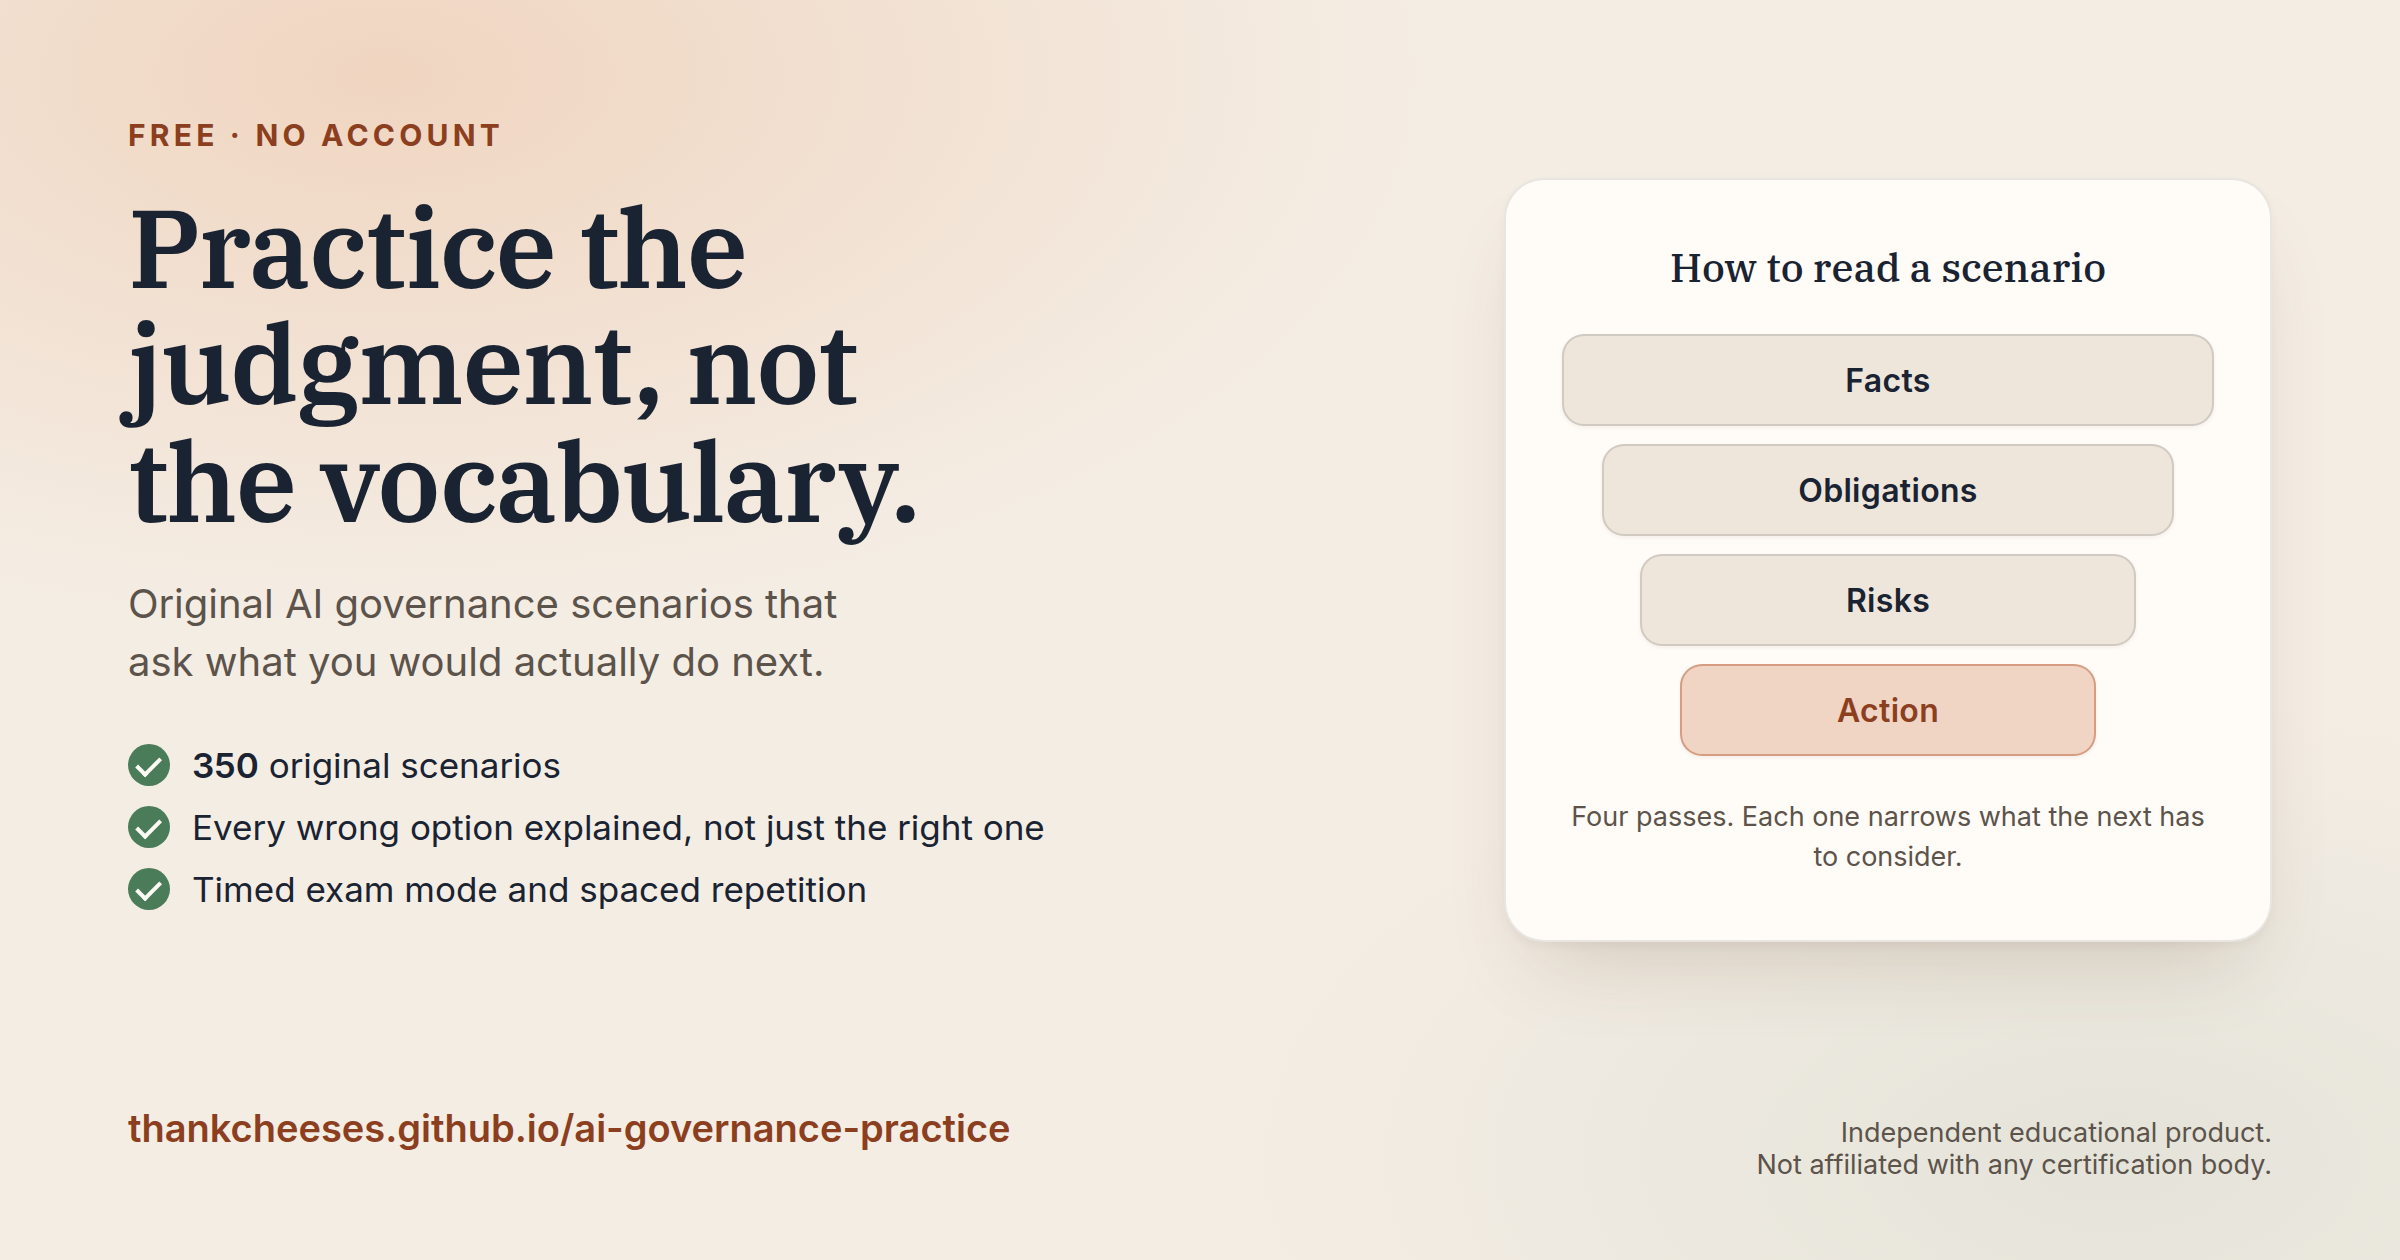
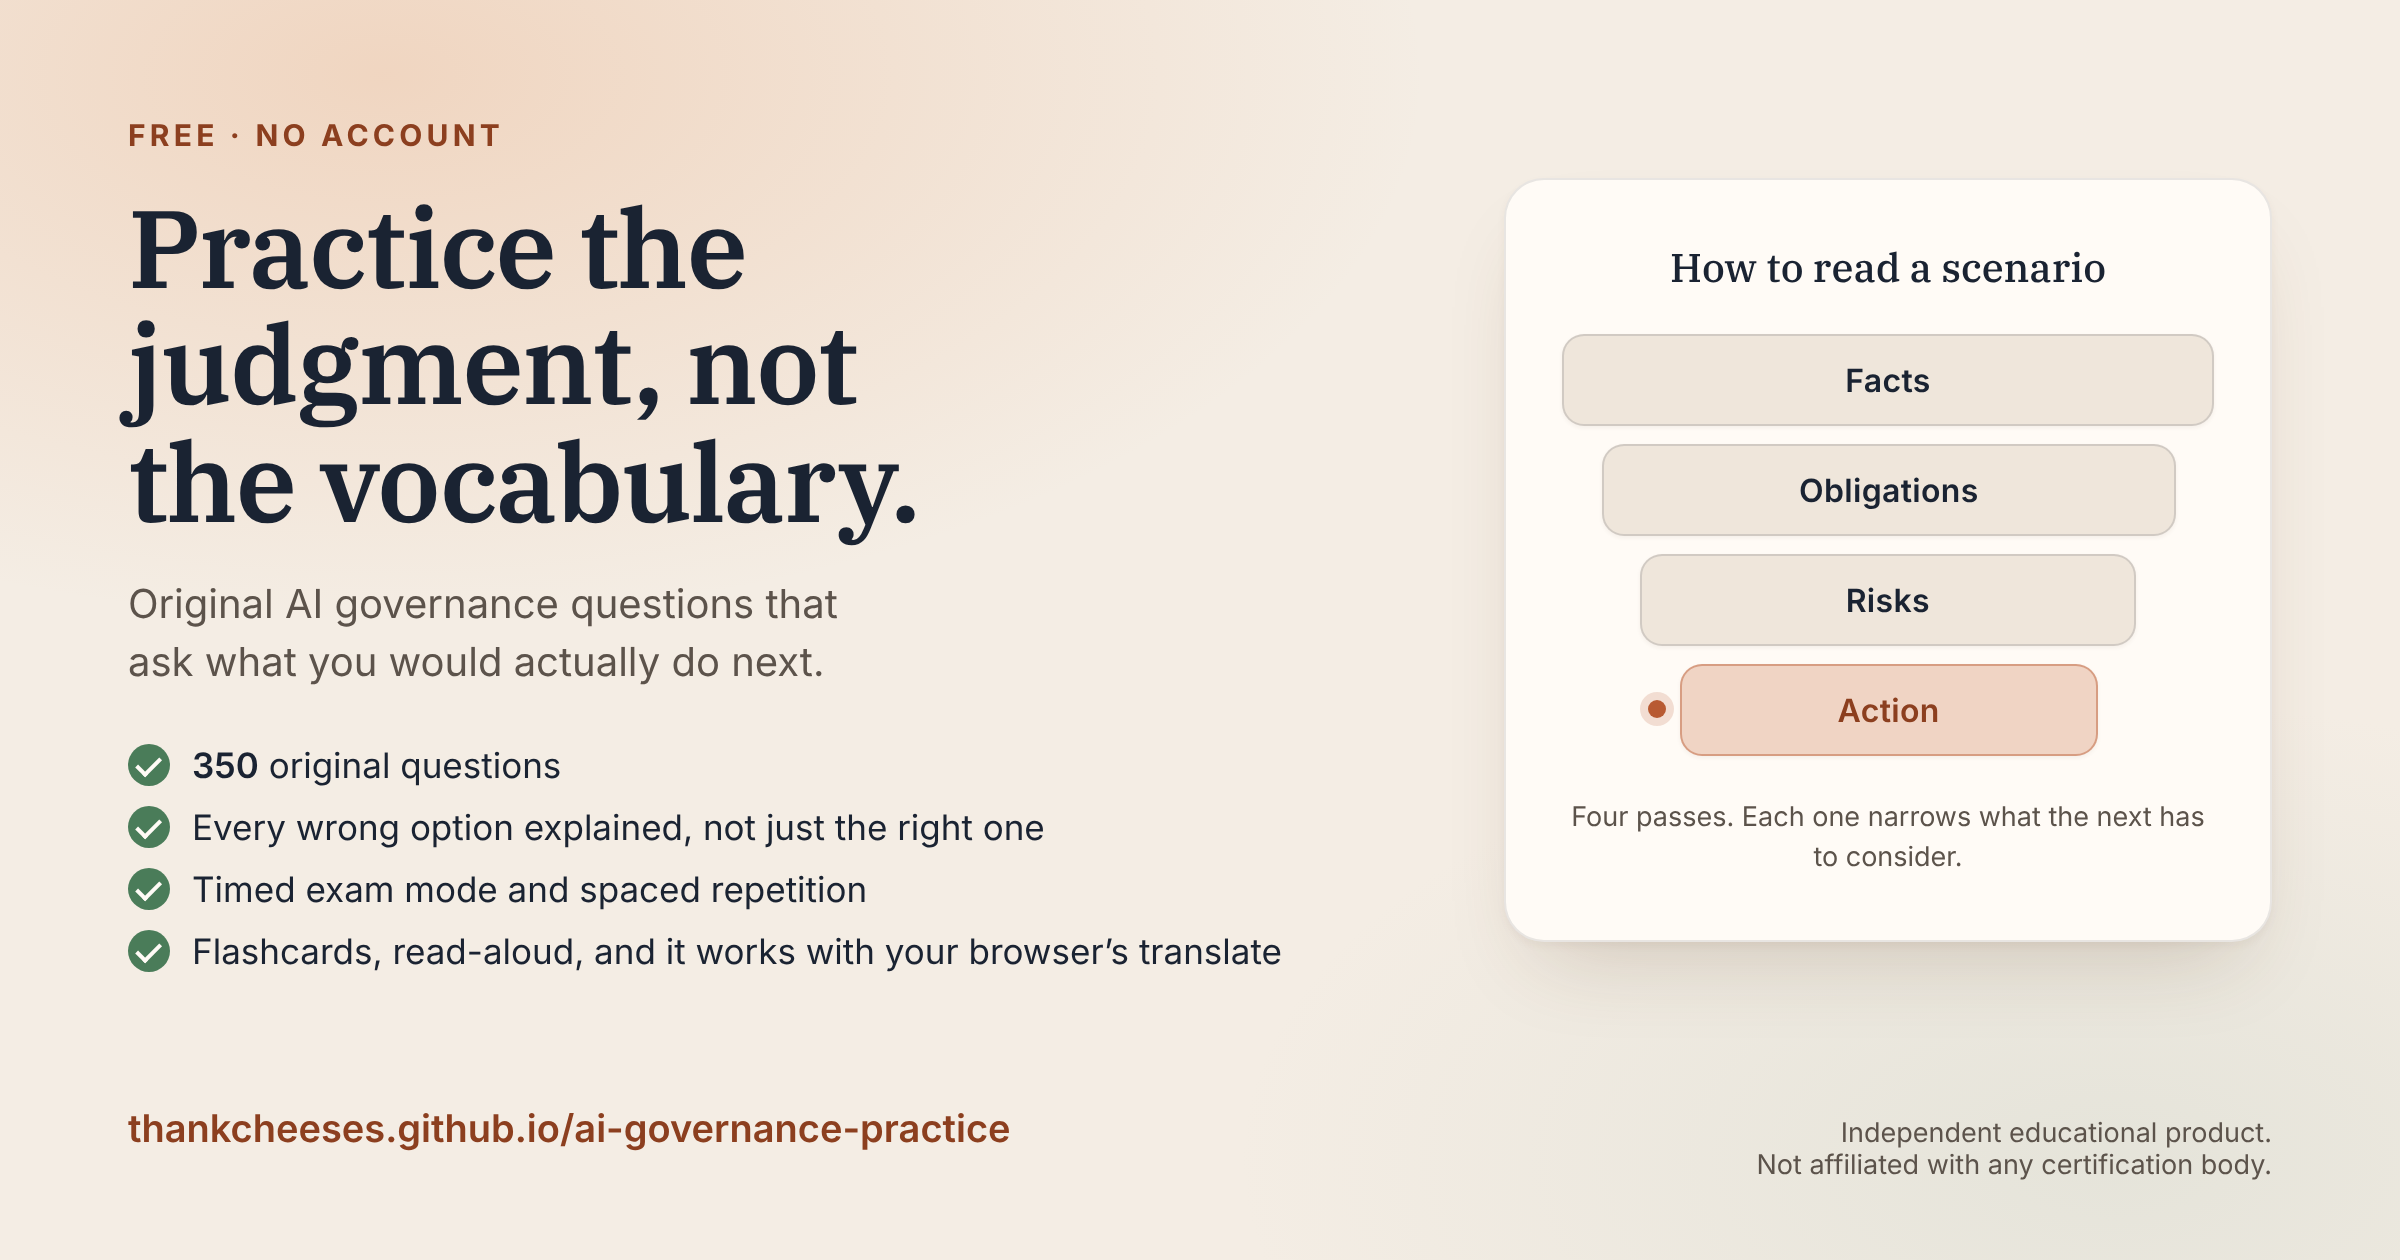
Animated link preview: og-card.gif, with the finished card as frame one
The social card now has an animated version: the four passes light up in
order, Facts to Action, and the loop rests on Action. Discord, Slack and
Telegram play it in a link preview. X, LinkedIn, Facebook and WhatsApp show
the first frame only, so time zero of the timeline is the finished card and
the still PNG is captured at that same instant.

- og-card.html: a 4.8 s CSS timeline (bands and a marker that walks the
  passes), plus a line for flashcards, read-aloud and browser translation.
- build-og-card.mjs: pauses and seeks every animation so frames are exact,
  writes the 2x PNG at t=0 and a 1200x630, 58-frame GIF (204 KB) via sharp.
- layout: og:image lists the GIF first, then the PNG; twitter:image stays
  the sharper PNG since X never animates a card.
- Re-rendered og-card.png, which had drifted from its source ("scenarios").

Claude-Session: https://claude.ai/code/session_01PKwDEg3sWUPwZq4Z9GSsFU

diff --git a/scripts/og-card.html b/scripts/og-card.html
@@ -142,6 +142,57 @@
         margin-top: 20px; font-size: 13.5px; line-height: 1.5;
         color: var(--muted); text-align: center;
       }
+
+      /*
+        ---- The animated card (og-card.gif) ----
+
+        The four passes light up in order, Facts to Action, and the loop comes
+        to rest on Action. Time zero IS the finished card: platforms that do not
+        animate a link preview (X, LinkedIn, Facebook, WhatsApp) show the first
+        frame, so the first frame has to be the whole message on its own. The
+        same timeline is used for the still PNG, captured at t=0.
+
+        One 4.8 s loop. Each band is lit for its slot; Action is lit at the
+        start and from its slot to the end, so the GIF's last frame meets its
+        first without a jump.
+      */
+      .band { transition: none; }
+      .band.b1 { animation: lit-1 4.8s linear infinite; }
+      .band.b2 { animation: lit-2 4.8s linear infinite; }
+      .band.b3 { animation: lit-3 4.8s linear infinite; }
+      .band.b4 { animation: lit-4 4.8s linear infinite; }
+      .pointer { animation: point 4.8s cubic-bezier(.45,0,.25,1) infinite; }
+
+      @keyframes lit-1 { 0%,12%,30%,100% { background:#efe6db; color:var(--ink); border-color:rgb(26 35 50 / .14); transform:none }
+                         15%,27% { background:var(--accent-subtle); color:var(--accent-strong); border-color:rgb(184 90 50 / .45); transform:scale(1.03) } }
+      @keyframes lit-2 { 0%,28%,46%,100% { background:#efe6db; color:var(--ink); border-color:rgb(26 35 50 / .14); transform:none }
+                         31%,43% { background:var(--accent-subtle); color:var(--accent-strong); border-color:rgb(184 90 50 / .45); transform:scale(1.03) } }
+      @keyframes lit-3 { 0%,44%,62%,100% { background:#efe6db; color:var(--ink); border-color:rgb(26 35 50 / .14); transform:none }
+                         47%,59% { background:var(--accent-subtle); color:var(--accent-strong); border-color:rgb(184 90 50 / .45); transform:scale(1.03) } }
+      @keyframes lit-4 { 0%,9%,63%,100% { background:var(--accent-subtle); color:var(--accent-strong); border-color:rgb(184 90 50 / .45) }
+                         12%,60% { background:#efe6db; color:var(--ink); border-color:rgb(26 35 50 / .14) }
+                         66%,72% { transform:scale(1.05) } 0%,80%,100% { transform:none } }
+
+      /* A small marker that walks down the four passes. */
+      .stack { position: relative; }
+      .pointer {
+        position: absolute; left: -16px; top: 0; width: 9px; height: 9px;
+        border-radius: 999px; background: var(--accent);
+        box-shadow: 0 0 0 4px rgb(184 90 50 / .18);
+      }
+      /* Band centres sit 55 px apart; each band is 6% narrower per side than
+         the one above, so the marker steps in by ~20 px as it steps down. */
+      @keyframes point {
+        0%, 9% { transform: translate(59px, 183px) }
+        13%, 27% { transform: translate(0, 18px) }
+        29%, 43% { transform: translate(20px, 73px) }
+        45%, 59% { transform: translate(39px, 128px) }
+        61%, 100% { transform: translate(59px, 183px) }
+      }
+
+      /* Rendering a still or a frame: the build script pauses every animation
+         and seeks it, so frames are exact rather than sampled from a clock. */
+      .frozen * { animation-play-state: paused !important; }
     </style>
   </head>
   <body>
@@ -160,12 +211,14 @@
           <li><span class="tick"></span><span><b data-count="questions">350</b> original questions</span></li>
           <li><span class="tick"></span><span>Every wrong option explained, not just the right one</span></li>
           <li><span class="tick"></span><span>Timed exam mode and spaced repetition</span></li>
+          <li><span class="tick"></span><span>Flashcards, read-aloud, and it works with your browser&rsquo;s translate</span></li>
         </ul>
       </div>
 
       <div class="panel">
         <h2>How to read a scenario</h2>
         <div class="stack">
+          <span class="pointer" aria-hidden="true"></span>
           <span class="band b1">Facts</span>
           <span class="band b2">Obligations</span>
           <span class="band b3">Risks</span>

diff --git a/src/app/layout.tsx b/src/app/layout.tsx
@@ -100,6 +100,13 @@ export const metadata: Metadata = {
 
     The file is regenerated by `npm run build:og` from `scripts/og-card.html`,
     and `check:content` holds its figures to the question bank.
+
+    Two Open Graph images, animated first. Discord, Slack and Telegram play
+    an animated GIF in a link preview; X, LinkedIn, Facebook and WhatsApp show
+    its first frame, which is the finished card by construction (see the
+    timeline note in og-card.html). The 2x PNG follows for any scraper that
+    skips GIFs, and is what X gets through `twitter:image`: X never animates a
+    card, so it may as well have the sharper still.
   */
   openGraph: {
     title: BRAND.name,
@@ -109,7 +116,15 @@ export const metadata: Metadata = {
     url: "/",
     images: [
       {
+        url: `${SITE_URL}/og-card.gif`,
+        type: "image/gif",
+        width: 1200,
+        height: 630,
+        alt: `${BRAND.name} — ${BRAND.tagline}`,
+      },
+      {
         url: `${SITE_URL}/og-card.png`,
+        type: "image/png",
         width: 1200,
         height: 630,
         alt: `${BRAND.name} — ${BRAND.tagline}`,
